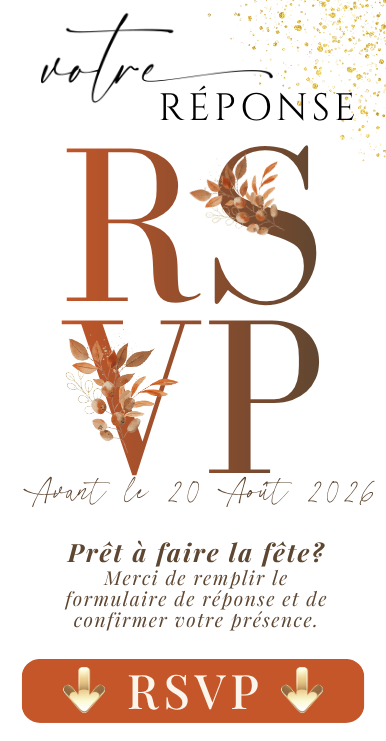
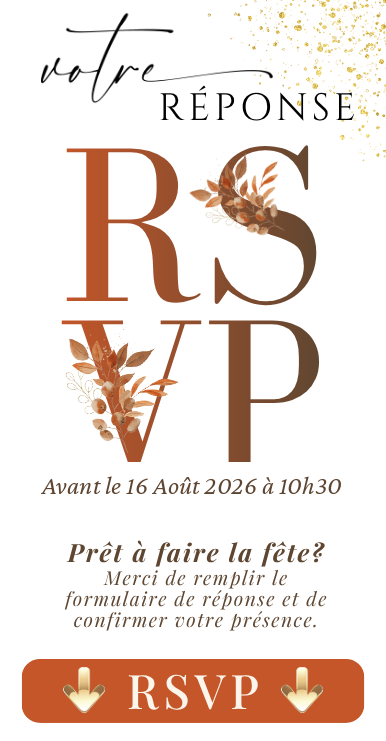
Date limite RSVP mise a jour: affichage 16 Aout a 10h30 (marge de securite), blocage technique reel a 11h00 le meme jour

Changed region(s): [[0.0622, 0.6208, 0.9637, 0.6829]]

diff --git a/app/mariage/[token]/MariageClient.tsx b/app/mariage/[token]/MariageClient.tsx
@@ -19,7 +19,7 @@ const VENUE_MAPS_URL =
   "https://www.google.com/maps/search/97355/@4.910319805145264,-52.458709716796875,17z?hl=fr";
 
 // Date limite réelle pour répondre au RSVP (les menus doivent être figés pour le traiteur)
-const RSVP_DEADLINE = new Date("2026-08-16T15:00:00");
+const RSVP_DEADLINE = new Date("2026-08-16T11:00:00");
 
 const ENTREE_OPTIONS = [
   "Salade thaï accompagnée de crevettes tempura",
